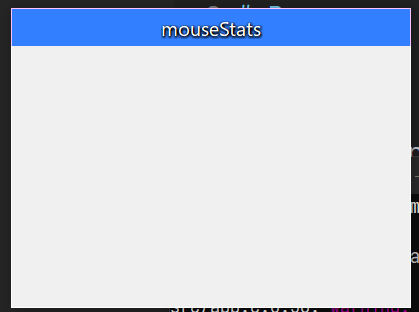
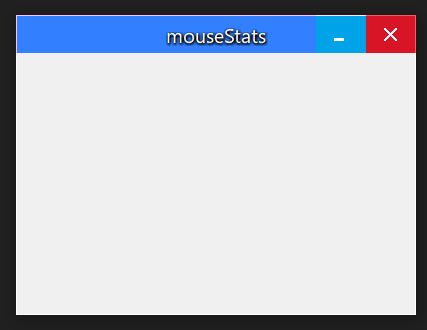
Add pics

Changed region(s): [[0.0, 0.0, 1.0, 1.0]]

diff --git a/README.md b/README.md
@@ -9,9 +9,16 @@ The project is currently under heavy development. The goal is to try a new way o
 sublime user interfaces by using borderless windows:
 
 
+### Borderless window
 ![Borderless](./img/borderless.png)
 
-The app should also be DPI-aware and should use fluid design.
+### Close button highlighted:
+![Close high](./img/closehigh.png)
+
+### Minimize button highlighted:
+![Minimize high](./img/minhigh.png)
+
+The app should also be DPI-aware and use fluid design.
 
 
 # License
